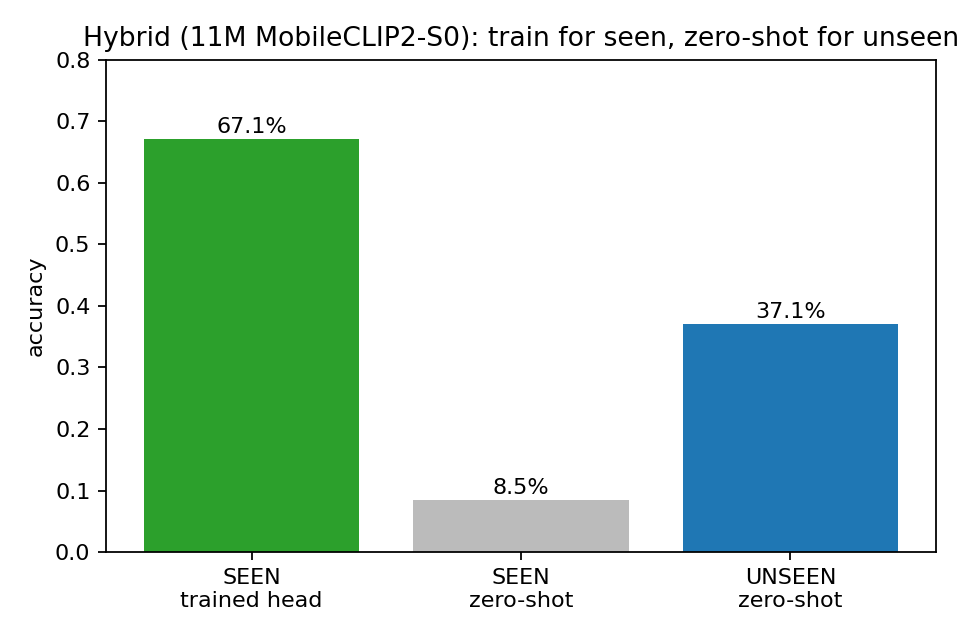
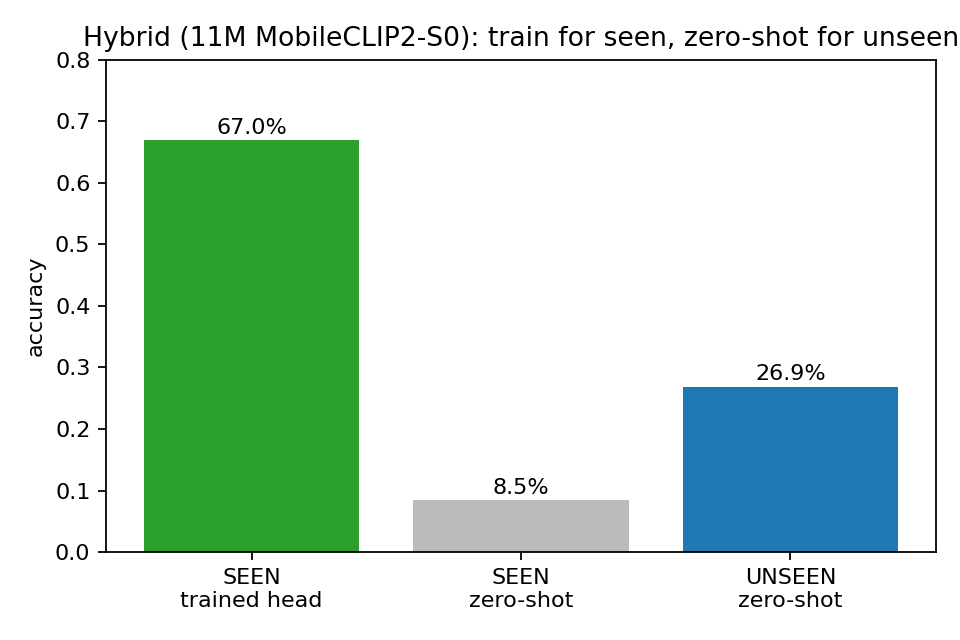
Update README + plan/figures to validated hybrid (results with Coffee)
README: rewrite to the current architecture -- frozen compact CLIP family
(11/21/35M + 86/93M) + trained seen head + descriptor zero-shot unseen + WiSE-FT
+ abstain; add Phase-0 validated results; fix repo layout/status.

Results with Coffee (3 held crops, 17 classes, chance 5.9%): bake-off SigLIP2
31.5% > S2 28.7% > S0 26.9% > S1 22.5% > BioCLIP2 9.6% (drop). SCOLD now loads
(class LVL) but 5.3% = adapter issue (RoBERTa from base + preprocess), not a
valid SCOLD number. Hybrid: seen 67.0% / unseen 26.9% preserved. EXP3 theta0
aliasing bug fixed; clean sweep pending.

Update paper.md 5.6/5.7, findings_log rows 8-10, fig_bakeoff/fig_hybrid to
17-class numbers.

Changed region(s): [[0.6875, 0.4688, 0.9375, 0.625], [0.2188, 0.1875, 0.3125, 0.2188]]

diff --git a/docs/paper/make_figures.py b/docs/paper/make_figures.py
@@ -41,16 +41,16 @@ SPEC_HELD = [.121, .176, .122, .142, .140, .138, .150, .138, .150, .148, .154]
 SPEC_BASE = 0.199
 
 # ---- EXP1 bake-off: encoder rich-descriptor zero-shot (held 8 classes, chance 12.5%) ----
-BAKEOFF = [  # (label, img params M, rich zero-shot)
-    ("MobileCLIP2-S0", 11.4, 0.371),
-    ("MobileCLIP-S1", 21.5, 0.402),
-    ("MobileCLIP2-S2", 35.8, 0.346),
-    ("BioCLIP2", 304.0, 0.254),
-    ("SigLIP2", 92.9, 0.498),
+BAKEOFF = [  # (label, img params M, rich zero-shot) -- 17-class held (Coffee+Orange+Peach), chance 5.9%
+    ("MobileCLIP2-S0", 11.4, 0.269),
+    ("MobileCLIP-S1", 21.5, 0.225),
+    ("MobileCLIP2-S2", 35.8, 0.287),
+    ("BioCLIP2", 304.0, 0.096),
+    ("SigLIP2", 92.9, 0.315),
 ]
-BAKEOFF_CHANCE = 0.125
-# ---- EXP2 hybrid (MobileCLIP2-S0, 11M): trained seen vs zero-shot seen vs zero-shot unseen ----
-HYBRID = {"seen_trained": 0.671, "seen_zeroshot": 0.085, "unseen_zeroshot": 0.371}
+BAKEOFF_CHANCE = 0.059
+# ---- EXP2 hybrid (MobileCLIP2-S0, 11M): trained seen vs zero-shot seen vs zero-shot unseen (3 crops) ----
+HYBRID = {"seen_trained": 0.670, "seen_zeroshot": 0.085, "unseen_zeroshot": 0.269}
 
 
 def fig_efficiency_curve():
@@ -141,7 +141,7 @@ def fig_bakeoff():
         ax.text(v + 0.005, i, f"{v:.1%}", va="center", fontsize=8)
     ax.axvline(BAKEOFF_CHANCE, ls="--", color="grey", lw=1, label=f"chance ({BAKEOFF_CHANCE:.1%})")
     ax.set_xlabel("rich-descriptor zero-shot accuracy (held-out crops)")
-    ax.set_title("Encoder bake-off: SigLIP2 best; MobileCLIP-S1 best lightweight; BioCLIP2 poor")
+    ax.set_title("Encoder bake-off (17 cls): SigLIP2 best; lightweight 22-29%; BioCLIP2 poor")
     ax.legend(fontsize=8)
     fig.tight_layout(); fig.savefig(FIG / "fig_bakeoff.png", dpi=160); plt.close(fig)
 

diff --git a/README.md b/README.md
@@ -1,72 +1,76 @@
 # Plant-Disease-Edge
 
-A **~1.3M-parameter, INT8 edge model** for crop-disease diagnosis, distilled from a frozen
-vision-language foundation model. The headline capability is **cross-crop zero-shot generalization**:
-the tiny student diagnoses crops it **never saw during training**, by matching images to LLM-authored,
-source-grounded symptom **text prototypes** — a capability only the foundation-model teacher enables,
-delivered on a **$35 device at zero marginal inference cost**.
+A **family of compact (11–93M) vision–language models** for crop-disease diagnosis that is **trained for
+high real-time accuracy on known crops** and does **zero-shot diagnosis on unseen crops** via
+source-grounded symptom descriptors — deployable at $0/image on phones, laptops, and small NPUs.
 
 > **Target venue:** *Computers and Electronics in Agriculture* — Special Issue
-> **"Foundation Models in Agriculture."**  **Internal deadline: August 2026.**
+> **"Foundation Models in Agriculture."** Submission deadline **30 Sep 2026** (internal target Aug 2026).
+>
+> **Status (Jun 2026):** Phase-0 de-risk complete — the hybrid architecture is **validated on real SAGE
+> data**. Full evidence trail: [`docs/paper/findings_log.md`](docs/paper/findings_log.md).
 
 ---
 
 ## The idea in one line
 
-Frontier VLM disease agents (e.g. **SAGE**) are accurate but cost ~**$0.30/image** and can't run on a
-phone. We **distill that symptom-grounded knowledge into EdgeNeXt-XX-Small**, keep **zero-shot
-generalization** via text prototypes, add an **OOD/abstain gate**, quantize to **INT8**, and benchmark
-on **phone + Raspberry Pi**.
+Frontier VLM disease agents (e.g. **SAGE**, **SCOLD**) are accurate but cloud-scale. We build a deployable
+compact VLM family: a **frozen image–text backbone** + a **trained head for seen crops** (high accuracy)
++ a **descriptor-driven zero-shot head for unseen crops** + **WiSE-FT** (train without losing
+generalization) + an **abstain gate** — at $0/image on the edge.
 
-## What makes it publishable
+## What's validated (Phase-0)
 
-- **Primary:** zero-shot diagnosis of **held-out crops** (Coffee, Orange/HLB, Peach, Pumpkin) the model
-  never trained on — the foundation-model-native capability the SI is about.
-- **Mechanism is load-bearing:** a student *without* descriptors scores at chance on held-out crops →
-  the LLM-descriptor anchoring is provably what enables the result, not a nice-to-have.
-- **Support:** in-the-wild accuracy on 7 trained crops · honest abstention (risk-coverage) · real
-  on-device latency/energy on a $35 Pi.
+- **A frozen compact CLIP does cross-crop zero-shot** via source-grounded descriptors (MobileCLIP2-S0, 11M).
+- **Descriptor quality is the lever:** rich vs bare = **+8–15pp** (matches SAGE's +14–16pp), even at 11M.
+- **The hybrid works on ONE 11M backbone:** trained head **67%** on seen crops **+** zero-shot **~27%** on
+  unseen crops, simultaneously.
+- **Encoder bake-off:** SigLIP2 best teacher (31.5%); lightweight tiers 22–29%; **BioCLIP2 poor (dropped)**.
+- **Training a tiny model from scratch / specializing on seen does NOT improve unseen zero-shot** — so we
+  keep frozen backbone + descriptors for unseen, and train only the seen head (+ WiSE-FT).
 
-## Approach at a glance
+## The model family
 
-| Piece | Choice |
-|---|---|
-| **Data** | **SAGE only** (`tirtho149/SAGE`, MIT) — stream-and-filter on Kaggle, never download the 114 GB |
-| **Train crops (7)** | Tomato, Soybean, Apple, Corn, Grape, Potato, Rice |
-| **Held-out / zero-shot (4)** | Coffee, Orange (HLB), Peach, Pumpkin |
-| **OOD / abstain** | SAGE long-tail crops + rare classes |
-| **Teachers (frozen)** | benchmark **CLIP ViT-B/16 · OpenCLIP ViT-L/14 · SigLIP2**, pick best zero-shot distiller; **DINOv2-small** as auxiliary robustness teacher |
-| **Student** | EdgeNeXt-XX-Small (~1.3M) — text-projection head (zero-shot engine) + DINOv2-align head (aux) → INT8 → ONNX → TFLite |
-| **Descriptors** | LLM-authored, **source-grounded** `{value, source_url, verbatim_quote}` — auditable, hallucination-resistant |
+| Class | Base (open_clip) | Image-enc params | Device |
+|---|---|---|---|
+| Lightweight | MobileCLIP2-S0 · MobileCLIP-S1 · MobileCLIP2-S2 | ~11 / 21 / 35M | NPU · phone · laptop |
+| Heavyweight | MobileCLIP-B · SigLIP2 | ~86 / 93M | workstation |
+| Stretch (PoC) | distilled ~5M (TinyVLM / CLIP-RD) | ~5M | MCU — future work |
 
-## Roadmap (10 weeks → August)
+Only the **image encoder** deploys; the text encoder runs offline to precompute descriptor prototypes.
 
-| Phase | What | Owner |
-|---|---|---|
-| **A** | SAGE subset + descriptors + splits | DATA |
-| **B** | Cache frozen teacher embeddings once (shared Kaggle Dataset) | MODEL |
-| **C** | Distill student · **zero-shot experiment** · abstain gate · ablations | MODEL |
-| **D** | INT8 + phone/Pi benchmark | EDGE |
-| **E** | Paper draft + submission | WRITE/LEAD |
+## Data
 
-Full detail, acceptance criteria, and experiments matrix: **[`PROJECT_GUIDE.md`](PROJECT_GUIDE.md)**.
+**SAGE only** (`tirtho149/SAGE`, MIT) — parquet-shard fetch on Kaggle (never the ~133 GB). Train crops:
+Tomato/Soybean/Apple/Corn/Grape/Potato/Rice. Held-out (zero-shot): Coffee/Orange/Peach/Pumpkin.
+Descriptors are **source-grounded** `{value, source_url, verbatim_quote}` — auditable, hallucination-resistant.
+
+## Run the experiments
+
+Self-contained Kaggle script (no clone/auth needed): upload **`temp/run_all.py`**, GPU + Internet ON, then
+`%run run_all.py` — runs EXP1 (encoder bake-off) + EXP2 (hybrid: train seen / keep unseen) + EXP3
+(fine-tune + WiSE-FT). The consolidated, importable pipeline lives in **`scripts/`** (`evaluate.py`,
+`sage_data.py`, `descriptors.py`, `zeroshot.py`). Figures: `python docs/paper/make_figures.py`.
+
+Full plan, architecture, acceptance criteria: **[`PROJECT_GUIDE.md`](PROJECT_GUIDE.md)**.
 
 ## Getting started (new teammate)
 
 1. Read **[`PROJECT_GUIDE.md`](PROJECT_GUIDE.md)** (the plan) then **[`CONTRIBUTING.md`](CONTRIBUTING.md)**
    (roles, Kaggle accounts, env, git).
 2. Set up the environment (CONTRIBUTING §3) and grab your role + Kaggle account (§1–2).
-3. Pick up your phase's first task in the guide (§6). Current state: **Phase A, not yet started.**
+3. Current state: **Phase-0 de-risk complete (hybrid validated)**; next is Phase A (clean data incl.
+   Coffee via a saved Kaggle Dataset, source-grounded descriptors, full ablation + on-device benchmark).
 
 ## Repo layout
 
 ```
 PROJECT_GUIDE.md   # canonical plan (read first)
 CONTRIBUTING.md    # how we work: roles, Kaggle, env, git
-scripts/           # data build, descriptors, training, export
-notebooks/         # Kaggle notebooks
-descriptors/       # per-crop source-grounded symptom JSON
-docs/              # paper.tex, figures (Phase E)
+scripts/           # consolidated pipeline: config, sage_data, descriptors, zeroshot, evaluate
+temp/              # run_all.py — self-contained Kaggle experiment driver (EXP1/2/3)
+descriptors/       # per-crop source-grounded symptom JSON (Phase A2)
+docs/paper/        # paper.md draft, findings_log.md (evidence trail), make_figures.py, figures/
 ```
 
 Weights, datasets, and embedding caches are **not** in git (see `.gitignore`) — they live on Kaggle

diff --git a/docs/paper/paper.md b/docs/paper/paper.md
@@ -86,30 +86,36 @@ make near-duplicate classes collide). Taxonomy cleaning + real source-grounded d
 INT8 size, p50/p95 latency, RAM on laptop + small NPU per tier.
 
 ### 5.6 Encoder bake-off — Fig. `fig_bakeoff.png`
-Rich-descriptor zero-shot on the held-out crops (8 classes, chance 12.5%):
+Rich-descriptor zero-shot on the **3 held-out crops** (Coffee+Orange+Peach, 17 classes, chance 5.9%):
 
 | Encoder | Params | Zero-shot |
 |---|---|---|
-| **SigLIP2** | 93M | **49.8%** |
-| **MobileCLIP-S1** | 21M | **40.2%** |
-| MobileCLIP2-S0 | 11M | 37.1% |
-| MobileCLIP2-S2 | 36M | 34.6% |
-| BioCLIP2 | 304M | 25.4% |
+| **SigLIP2** | 93M | **31.5%** |
+| MobileCLIP2-S2 | 36M | 28.7% |
+| MobileCLIP2-S0 | 11M | 26.9% |
+| MobileCLIP-S1 | 21M | 22.5% |
+| BioCLIP2 | 304M | 9.6% |
+| *SCOLD* | *~238M* | *5.3% (adapter issue — see note)* |
 
-SigLIP2 is the best teacher/reference. **MobileCLIP-S1 (21M) is the best *deployable* encoder** —
-and notably **MobileCLIP2-S2 (36M) is dominated by it** (bigger, worse), so the family anchors at
-**11M (S0) + 21M (S1) + 93M (SigLIP2)**. **BioCLIP2 underperforms an 11M model** — the biological FM
-does not transfer to leaf disease; dropped as a teacher. *(SCOLD/AgriCLIP need their custom loaders —
-`transformers` AutoModel rejects SCOLD's `scold` model type; pending.)*
+SigLIP2 is the best teacher/reference. The lightweight tiers cluster at **22–29%** (ranking is within
+noise across eval sets; the flat-curve story holds). **BioCLIP2 underperforms an 11M model** (9.6%) — the
+biological FM does not transfer to leaf disease; **dropped as a teacher.** Interestingly MobileCLIP beats
+SigLIP2 *on Coffee* (35% vs 21%) — it is crop-dependent.
+
+*SCOLD note:* it loads (custom `LVL` class), but our best-effort adapter scores below chance (5.3%) — the
+RoBERTa text tower loads from base `roberta-base` and the image preprocessing may not match SCOLD's, so
+this is **not a valid measure of SCOLD**; a faithful number needs their `inference.py` pipeline. *(open
+item.)*
 
 ### 5.7 The hybrid works — Fig. `fig_hybrid.png`
-One frozen 11M backbone (MobileCLIP2-S0), two heads, on real SAGE data:
-- **SEEN crops (80 classes): trained linear-probe head 67.1% vs zero-shot 8.5%** — training is ~8× better
-  on known crops (the supervised-beats-zero-shot result, at the edge).
-- **UNSEEN crops: zero-shot 37.1%, preserved** (the frozen backbone is untouched by the seen-crop head).
+One frozen 11M backbone (MobileCLIP2-S0), two heads, on real SAGE data (3 held-out crops):
+- **SEEN crops (80 classes): trained linear-probe head 67.0% vs zero-shot 8.5%** — training is ~8× better
+  on known crops (supervised-beats-zero-shot, at the edge).
+- **UNSEEN crops: zero-shot 26.9%, preserved** (frozen backbone untouched by the seen-crop head).
 
 This validates the architecture: **train thoroughly for seen crops (high real-time accuracy) and keep
-descriptor zero-shot for unseen crops — from a single 11M model.**
+descriptor zero-shot for unseen crops — from a single 11M model.** *(EXP3 full fine-tune + WiSE-FT: a
+theta0-aliasing bug was fixed; a clean WiSE-FT sweep re-run is pending.)*
 
 ## 6. Discussion
 - The headline is **descriptor-driven cross-crop zero-shot on frozen compact VLMs + radical parameter efficiency**, not a trained tiny model.

diff --git a/docs/paper/findings_log.md b/docs/paper/findings_log.md
@@ -12,8 +12,9 @@ descriptors unless noted. Student backbone for distill runs = `edgenext_small` (
 | 5 | Probe pretrained CLIPs | frozen, no training | **MobileCLIP2-S0 (11M) 19.9%**, flat 11–300M @17–22%, SigLIP2 25.6% | **FORK A: feasible** ⇒ pivot to pretrained CLIPs |
 | 6 | Specialize (adapter) | MobileCLIP2-S0 + residual adapter + SigLIP2 KD | base 19.9% → **15.4% (−4.5pp)** | NO LIFT — catastrophic forgetting |
 | 7 | Descriptor quality | bare/crude/**rich** on frozen models, 8 classes (Orange+Peach), chance 12.5% | **rich best on all**: S0 29.5→**37.5%** (+8), S1 24.8→**39.8%** (+15), SigLIP2 34.8→**49.5%** (+14.7); Orange/HLB 8.9→**95.6%** on 11M | **POSITIVE — descriptor lever validated** |
-| 8 | Encoder bake-off | rich zero-shot, held 8 classes | **SigLIP2 49.8%** (best) > **MobileCLIP-S1 40.2%** (best lightweight, 21M) > S0 37.1% (11M) > S2 34.6% (36M, dominated) > BioCLIP2 25.4% (poor). SCOLD/AgriCLIP load-failed | SigLIP2=teacher; S1=deploy; drop BioCLIP2/S2 |
-| 9 | Train seen / keep unseen | MobileCLIP2-S0 11M, linear probe on 80 seen classes | **SEEN trained 67.1% vs zero-shot 8.5%** (8× win); **UNSEEN zero-shot 37.1% preserved** | **HYBRID VALIDATED** — train seen, zero-shot unseen, one frozen 11M model |
+| 8 | Encoder bake-off | rich zero-shot, **3 held crops, 17 classes**, chance 5.9% | **SigLIP2 31.5%** (best) > S2 28.7% > S0 26.9% > S1 22.5% > BioCLIP2 9.6% (poor, drop). SCOLD loaded (class LVL) but **5.3% — adapter issue, not valid** (RoBERTa from base; preprocess mismatch) | SigLIP2=teacher; lightweight ~22-29% (noisy ranking); drop BioCLIP2; SCOLD needs inference.py |
+| 9 | Train seen / keep unseen | MobileCLIP2-S0 11M, linear probe, 80 seen classes, 3 held crops | **SEEN trained 67.0% vs zero-shot 8.5%** (8× win); **UNSEEN zero-shot 26.9% preserved** | **HYBRID VALIDATED** — train seen, zero-shot unseen, one frozen 11M model |
+| 10 | Fine-tune + WiSE-FT (EXP3) | MobileCLIP2-S0, ft 5 epochs, alpha sweep | theta0 ALIASING BUG (deepcopy) made alpha=0 = forgotten model (15.9% not 26.9%); **FIXED** (reload pristine weights); clean sweep re-run pending | re-run `--only exp3` |
 
 ## What is established
 - **Works:** frozen compact pretrained CLIP + descriptors does cross-crop zero-shot (~20% @ 11M, 3.4× chance, ~78% of 93M SigLIP2).
